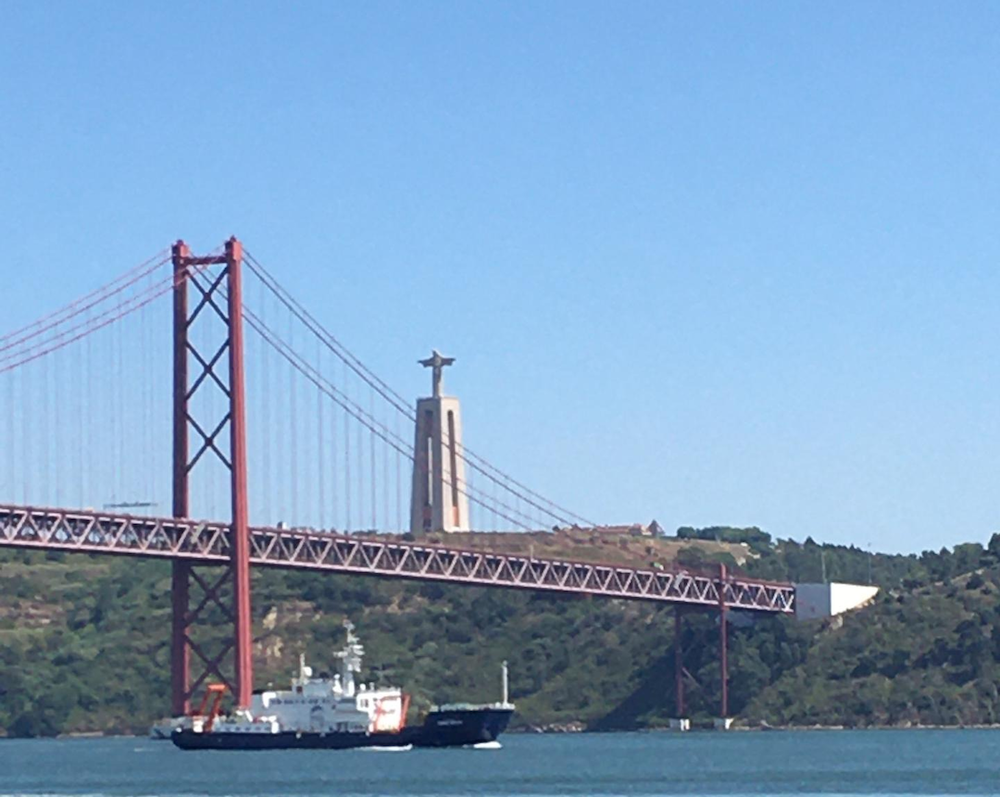
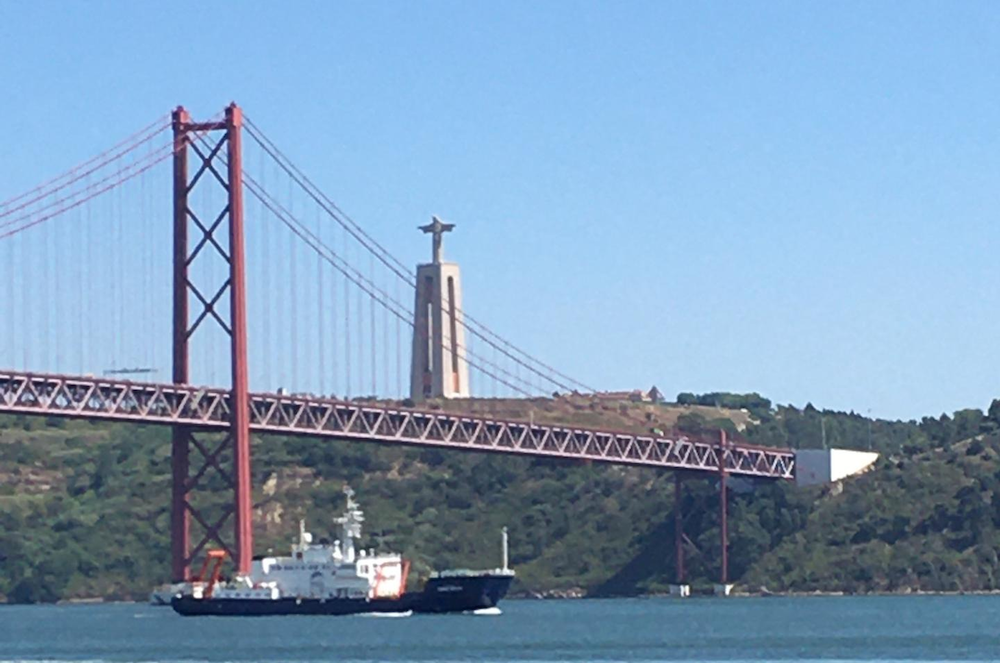
Corrected two more mistakes and changed the size and aspect ratio of one image.

Changed region(s): [[0.0, 0.1508, 1.0, 0.9653], [0.341, 0.5128, 0.372, 0.543], [0.31, 0.4827, 0.341, 0.5128]]

diff --git a/content/experiment/blogs/LeavingPort.md b/content/experiment/blogs/LeavingPort.md
@@ -11,11 +11,11 @@ summary: "Today we finally left the port."
 
 Finally, we left the calm waters of the naval base and started our 5-week deployment journey. In the morning, we were busy checking the equipment, especially their communication with the computer. This is important since these ocean bottom seismometer stations will not have a physical link to the sea surface once they are deployed. And while they are still in our reach on the ship we have the chance to find out if any one of them has issues.
 
-{{< figure src="/blogs/Test_releasers.png" caption="Samane, Auggie and Theresa testing the releasers that make sure that they will communicate with the ship at the end of the deployment and release the stations back to the surface." >}}
+{{< figure src="/blogs/Test_releasers.png" caption="Samane, Auggie and Theresa testing the releasers to make sure that they will communicate with the ship at the end of the deployment and release the stations back to the surface." >}}
 
 But then, at 15:00 we started travelling through the estuary of the Tagus, leaving Lisbon behind us and crossing under the Ponte de 25th of Abril (the one that looks a bit like the Golden Gate Bridge). On the port side (left in vessel moving direction) there is Lisbon's own version of the Christ the Redeemer statue you would normally associate with Rio de Janeiro. On the starboard side, we passed by the Tower of Belém and, fittingly for our scientific expedition, the Explorers' Monument.
 
-Now, the ship is heading for the open waters of the Atlantic Ocean. It will, however, take us a few days until we reach the site of our first OBS deployment. Until then, there is more equipment testing to be done and we will also take the time to get used to the movement of the ship in bigger waves.a
+Now, the ship is heading for the open waters of the Atlantic Ocean. It will, however, take us a few days until we reach the site of our first OBS deployment. Until then, there is more equipment testing to be done and we will also take the time to get used to the movement of the ship in bigger waves.
 
 {{< figure src="/blogs/MarioRuivo_under_bridge.png" caption="The Mario Ruivo in front of the 25th of April bridge and the Christ the Redeemer statue (photo taken from a great distance because the Tagus is quite wide here)." >}}
 
